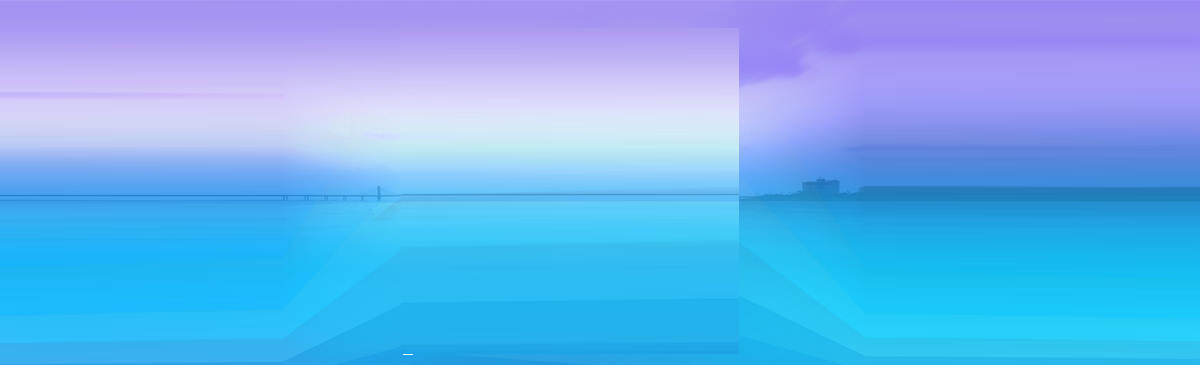
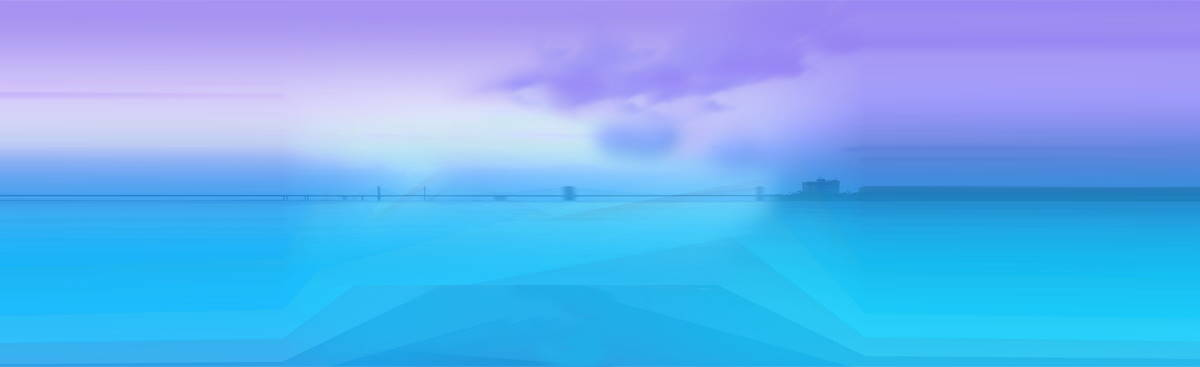
Hero background

diff --git a/css/custom.css b/css/custom.css
@@ -1,8 +1,13 @@
 /* custom CSS - everything else, that wasn't styled with components css */
 
 /* layout */
-container.hero {
+.container.hero {
     padding-bottom: var(--section-padding);
+    background-image: url(../img/hero-background.jpg);
+    background-size: cover;
+    background-position: bottom center;
+    background-attachment: fixed;
+    min-height: 100vh;
 }
 
 footer.container {
